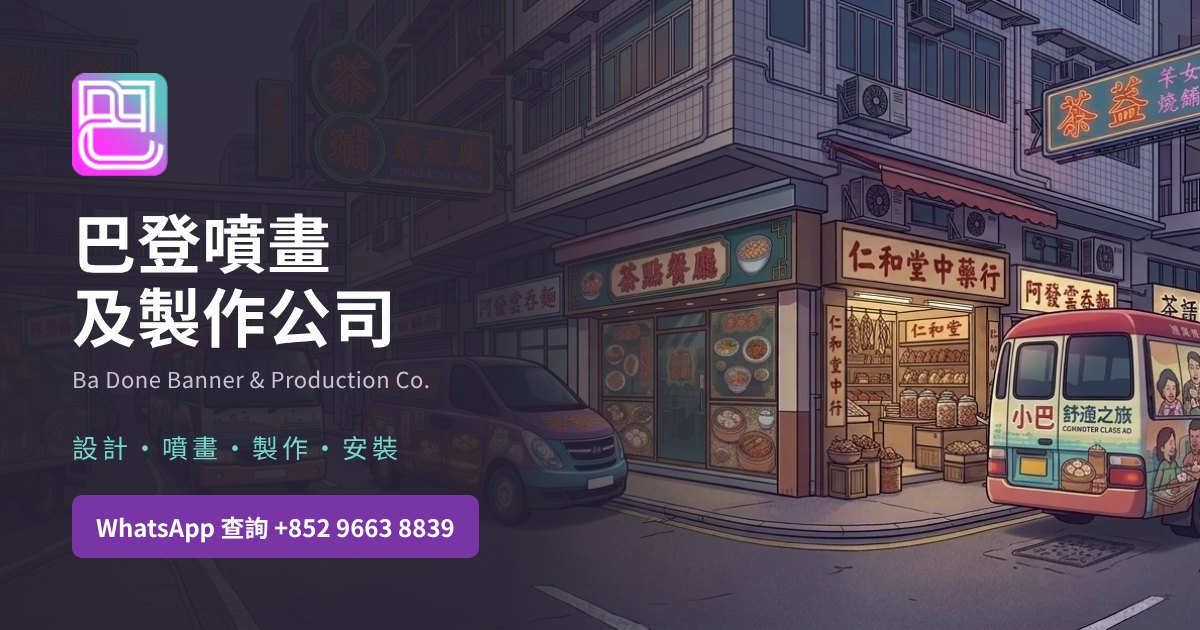
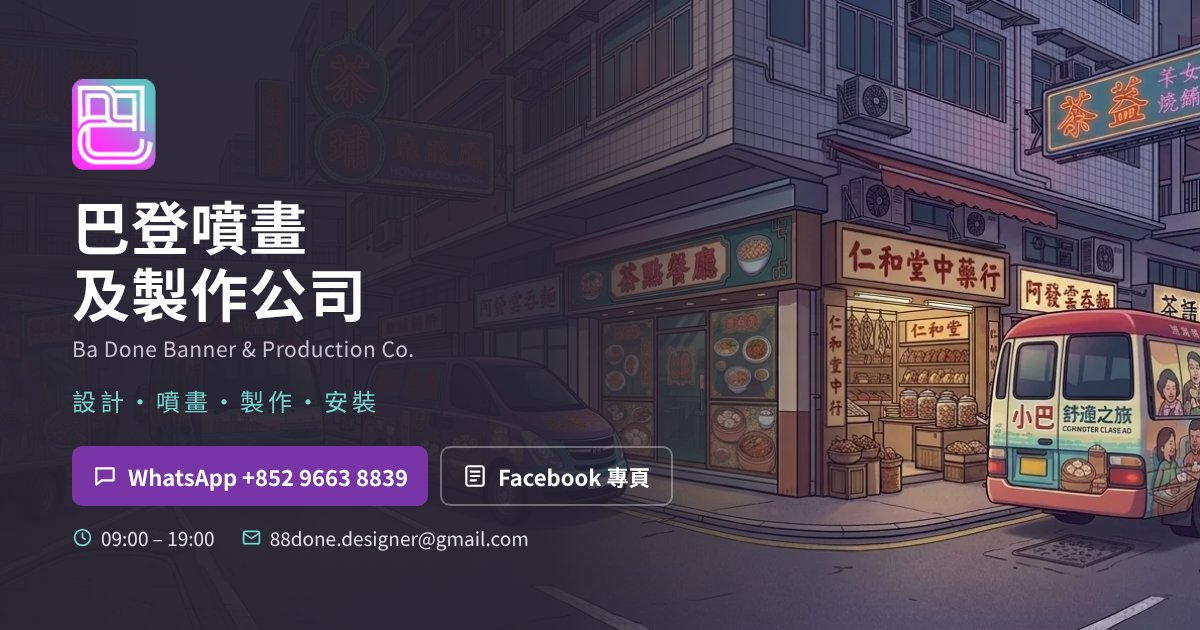
Keep original wording; two-line top bar on phones; add hours and email
- Restore the original mixed written/Cantonese wording (owner prefers it, readable for Mandarin speakers too)
- Phones: show the top bar as two lines (English name, then services) instead of hiding the English
- Add business hours (09:00–19:00) and email to the quote section and footer, plus an Email link
- Refresh the share preview image with WhatsApp, Facebook, hours and email
- Phones: put the two footer notes on separate lines

Claude-Session: https://claude.ai/code/session_01KekdL4R6muF96piBttP2z3

Changed region(s): [[0.0617, 0.0905, 0.3392, 0.6635], [0.0617, 0.6937, 0.555, 0.9048], [0.4933, 0.3921, 0.6167, 0.4825]]

diff --git a/index.html b/index.html
@@ -99,6 +99,12 @@ nav{display:flex;align-items:center;gap:28px;font-size:14px}
 .contact-card strong{display:block;font-size:23px}
 .contact-card small{color:var(--muted)}
 .contact-card .btn{margin-top:16px}
+.contact-list{margin:22px 0 0;display:grid;gap:10px;font-size:14px}
+.contact-list div{display:flex;gap:14px}
+.contact-list dt{flex:0 0 64px;color:var(--muted)}
+.contact-list dd{margin:0;font-weight:700;overflow-wrap:anywhere}
+.contact-list a{border-bottom:1px solid #c9bdcf}
+.contact-list a:hover{color:var(--purple);border-color:var(--purple)}
 form{background:#fff;padding:32px;border:1px solid #e3d8eb;border-radius:16px;box-shadow:0 14px 45px #44225308}
 .fields{display:grid;grid-template-columns:1fr 1fr;gap:16px}
 .field.full{grid-column:1/-1}
@@ -126,6 +132,8 @@ footer{padding:44px 0 25px;background:var(--ink);color:#fff}
 .footer-brand{display:flex;align-items:flex-start;gap:14px}
 .footer-logo{object-fit:contain;flex-shrink:0}
 .footer-brand p{margin-top:8px}
+.foot-contact a{border-bottom:1px solid #5a4865}
+.foot-contact a:hover{border-color:#cbc1d2}
 .social{display:flex;gap:12px;flex-wrap:wrap;align-items:flex-start}
 .social a{border:1px solid #5a4865;border-radius:7px;padding:9px 14px;font-size:13px}
 .social a:hover{background:#42324c}
@@ -151,7 +159,9 @@ nav{gap:16px}
 @media(max-width:700px){
 .wrap{padding-left:22px;padding-right:22px}
 .topline{font-size:10px}
-.topline-en{display:none}
+.topline{padding:7px 8px;line-height:1.6}
+.topline-sep{display:none}
+.topline-en,.topline-zh{display:block}
 .head{min-height:86px;gap:10px}
 .brand{gap:9px}
 .brand-logo{width:39px;height:42px}
@@ -181,6 +191,8 @@ form{padding:22px}
 .foot-top,.foot-bottom{display:block}
 .social{margin-top:22px}
 .foot-bottom{padding-bottom:35px}
+.foot-bottom>span{display:block}
+.foot-bottom>span+span{margin-top:6px}
 .footer-logo{width:39px;height:42px}
 .float-wa{right:14px;bottom:14px;font-size:12px}
 }
@@ -200,7 +212,7 @@ html{scroll-behavior:auto}
 .btn:hover{transform:none}
 }
 </style></head><body>
-<div class="topline"><span class="topline-en">BA DONE BANNER &amp; PRODUCTION CO. · </span>設計 / 噴畫 / 製作 / 安裝</div>
+<div class="topline"><span class="topline-en">BA DONE BANNER &amp; PRODUCTION CO.</span><span class="topline-sep"> · </span><span class="topline-zh">設計 / 噴畫 / 製作 / 安裝</span></div>
[1 lines of base64/hex data omitted]
 <main><figure class="brand-banner"><img src="assets/badone-banner.webp" width="1728" height="624" alt="香港街景插畫，展示店舖招牌、櫥窗及車身廣告" fetchpriority="high" decoding="async"><figcaption>巴登品牌形象插畫 · 廣告，融入每個生活場景。</figcaption></figure><section class="wrap hero"><div><div class="eyebrow">BRING YOUR BRAND TO LIFE</div><h1>讓品牌被看見。<br>讓每個畫面，<br><span>發揮影響力。</span></h1><p>由店舖宣傳到車身廣告，巴登為你提供噴畫、貼紙、招牌製作及安裝服務，將設計呈現於每一個需要嘅位置。</p><div class="actions"><a class="btn dark" href="#quote">WhatsApp 查詢報價 ↗</a><a class="btn outline" href="#services">了解製作服務</a></div><div class="hero-note"><span>按項目選擇物料</span><span>製作與安裝安排</span></div></div></section>
 
@@ -209,11 +221,11 @@ html{scroll-behavior:auto}
 <article class="service"><svg class="icon" viewBox="0 0 40 40" aria-hidden="true"><path d="M8 5h23a4 4 0 0 1 4 4v14L23 35H8a4 4 0 0 1-4-4V9a4 4 0 0 1 4-4Z" fill="#f3e7fb"/><path d="M23 35V27a4 4 0 0 1 4-4h8" fill="#d9c0e9"/><path d="M11 13h16M11 19h12M11 25h6"/><path d="M27 27 23 35" stroke="#a480ba"/></svg><span class="num">02 / SIGNS &amp; STICKERS</span><h3>貼紙・亞加力膠廣告招牌</h3><p>櫥窗廣告、品牌文字、自黏貼紙及亞加力膠招牌，清楚呈現你嘅資訊。</p></article>
 <article class="service"><svg class="icon" viewBox="0 0 40 40" aria-hidden="true"><path d="M5 26V15h20l8 8v8H5zM25 15v9h8M9 19h11"/><circle cx="11" cy="31" r="4"/><circle cx="28" cy="31" r="4"/></svg><span class="num">03 / VEHICLE GRAPHICS</span><h3>車身貼・流動廣告</h3><p>車身標誌、文字及廣告貼，按車款、覆蓋範圍與使用需要製作。</p></article>
 <article class="service"><svg class="icon" viewBox="0 0 40 40" aria-hidden="true"><path d="M5 16v20h30V16M3 36h34M4 6h32l2 10H2L4 6Z" fill="#f2faf8"/><path d="M10 6 8 16m10-10v10m4-10v10m8-10 2 10M2 16q4 5 8 0 4 5 8 0 4 5 8 0 6 5 12 0"/><path d="M9 22h13v10H9z" fill="#63cec6" stroke="#21736f"/><path d="M25 36V22h6v14M12 25h7m-7 4h5"/><circle cx="28" cy="29" r=".8" fill="#21736f"/></svg><span class="num">04 / FILM &amp; INSTALLATION</span><h3>噴畫貼紙・現場安裝</h3><p>玻璃/牆身貼紙、裝飾及廣告安裝，配合現場環境安排施工。</p></article></div></section>
-<section class="applications" id="applications"><div class="wrap section"><div class="section-head"><div><div class="eyebrow">PRINT IN THE REAL WORLD</div><h2>品牌，可以出現喺邊度？</h2></div><p>由店面、商場到車身，透過項目照片了解噴畫及貼紙嘅應用。點選照片可放大查看。</p></div><div class="examples portfolio-grid"><article class="example portfolio-card"><a class="portfolio-image" href="assets/coffee-storefront.webp" target="_blank" rel="noopener" aria-label="放大查看：店舖外牆・大型噴畫"><img src="assets/coffee-storefront.webp" width="1600" height="900" loading="lazy" decoding="async" alt="咖啡店外牆廣告及店面展示"><span class="zoom-label">放大查看 ↗</span></a><div class="example-copy"><small>RETAIL / 店面廣告</small><h3>店舖外牆・大型噴畫</h3><p>以大型宣傳畫面配合店面空間，呈現品牌形象。</p></div></article><article class="example portfolio-card"><a class="portfolio-image" href="assets/mall-hoarding.webp" target="_blank" rel="noopener" aria-label="放大查看：商場圍板・廣告貼紙"><img src="assets/mall-hoarding.webp" width="1441" height="952" loading="lazy" decoding="async" alt="商場圍板上嘅品牌及餐飲廣告"><span class="zoom-label">放大查看 ↗</span></a><div class="example-copy"><small>LARGE FORMAT / 大幅面廣告</small><h3>商場圍板・廣告貼紙</h3><p>利用圍板展示品牌與推廣資訊，將空間變成廣告畫面。</p></div></article><article class="example portfolio-card"><a class="portfolio-image" href="assets/minibus-graphics.webp" target="_blank" rel="noopener" aria-label="放大查看：小巴・車身廣告"><img src="assets/minibus-graphics.webp" width="1533" height="1130" loading="lazy" decoding="async" alt="小巴側面及車頭廣告貼紙"><span class="zoom-label">放大查看 ↗</span></a><div class="example-copy"><small>VEHICLE GRAPHICS / 小巴</small><h3>小巴・車身廣告</h3><p>配合車身側面與車頭位置，清楚呈現廣告內容。</p></div></article><article class="example portfolio-card"><a class="portfolio-image" href="assets/van-wrap.webp" target="_blank" rel="noopener" aria-label="放大查看：貨 Van・車身廣告"><img src="assets/van-wrap.webp" width="1283" height="874" loading="lazy" decoding="async" alt="橙色貨Van側面及車尾車身廣告"><span class="zoom-label">放大查看 ↗</span></a><div class="example-copy"><small>VEHICLE GRAPHICS / 貨 Van</small><h3>貨 Van・車身廣告</h3><p>延伸品牌畫面至車身及車尾，讓出行成為展示機會。</p></div></article><article class="example portfolio-card"><a class="portfolio-image" href="assets/truck-graphics.webp" target="_blank" rel="noopener" aria-label="放大查看：貨車・車斗廣告"><img src="assets/truck-graphics.webp" width="1600" height="1200" loading="lazy" decoding="async" alt="Dunlop品牌貨車車斗及車門廣告"><span class="zoom-label">放大查看 ↗</span></a><div class="example-copy"><small>VEHICLE GRAPHICS / 貨車</small><h3>貨車・車斗廣告</h3><p>利用車斗大幅面空間，呈現品牌標誌及廣告畫面。</p></div></article><article class="example portfolio-card"><a class="portfolio-image" href="assets/interior-column.webp" target="_blank" rel="noopener" aria-label="放大查看：室內柱身・裝飾貼紙"><img src="assets/interior-column.webp" width="1094" height="1276" loading="lazy" decoding="async" alt="咖啡店室內柱身廣告貼紙"><span class="zoom-label">放大查看 ↗</span></a><div class="example-copy"><small>INTERIOR / 室內貼紙</small><h3>室內柱身・裝飾貼紙</h3><p>善用柱身及室內表面，融入品牌視覺與裝飾。</p></div></article><article class="example portfolio-card acrylic-card"><a class="portfolio-image" href="assets/acrylic-sign.webp" target="_blank" rel="noopener" aria-label="放大查看：亞加力膠廣告招牌"><img src="assets/acrylic-sign.webp" width="522" height="776" loading="lazy" decoding="async" alt="木紋牆上嘅彩色立體亞加力膠品牌招牌"><span class="zoom-label">放大查看 ↗</span></a><div class="example-copy"><small>ACRYLIC SIGNAGE / 亞加力膠招牌</small><h3>亞加力膠廣告招牌</h3><p>以彩色立體標誌及文字，為牆身呈現鮮明嘅品牌形象。</p></div></article><article class="example portfolio-card printing-card"><a class="portfolio-image" href="assets/printing-sheets.webp" target="_blank" rel="noopener" aria-label="放大查看：印刷・宣傳印刷品"><img src="assets/printing-sheets.webp" width="549" height="977" loading="lazy" decoding="async" alt="彩色宣傳印刷品嘅印刷紙張"><span class="zoom-label">放大查看 ↗</span></a><div class="example-copy"><small>PRINTING / 印刷</small><h3>印刷・宣傳印刷品</h3><p>以彩色印刷呈現產品資訊及宣傳內容。</p></div></article></div></div></section>
-<section class="wrap section" id="process"><div class="eyebrow">A CLEAR PROCESS</div><h2>由查詢到交付，清楚每一步。</h2><div class="steps"><article class="step"><b>01 / 話我哋知你嘅需要</b><h3>提供尺寸與現場照片</h3><p>說明用途、數量、完成日期及安裝位置。已有稿件亦可以喺 WhatsApp 提供。</p></article><article class="step"><b>02 / 確認製作細節</b><h3>確認物料、報價與稿件</h3><p>按項目需求確認製作方式，並商議送貨或現場安裝安排。</p></article><article class="step"><b>03 / 安排完成項目</b><h3>製作、交付或安裝</h3><p>根據已確認嘅內容安排製作，並按約定完成交付。</p></article></div></section>
-<section class="quote-area" id="quote"><div class="wrap section quote-grid"><div class="quote-intro"><div class="eyebrow">LET’S TALK ABOUT YOUR PROJECT</div><h2>有製作計劃？<br>先同我哋傾一傾。</h2><p>填好資料，按一下即可打開 WhatsApp，帶入你嘅查詢內容，再由你確認發送。</p><div class="contact-card"><small>WhatsApp 查詢</small><strong>+852 9663 8839</strong><a class="btn outline small" href="https://wa.me/85296638839" target="_blank" rel="noopener">直接開啟對話 ↗</a></div><p class="hint">照片會喺呢個頁面作本機預覽，唔會上傳到伺服器。WhatsApp 無法透過網址自動附加照片，請喺對話內再揀選附件發送。</p></div>
-<form id="quote-form"><div class="fields"><div class="field"><label for="name">稱呼 *</label><input id="name" name="name" autocomplete="name" maxlength="100" required placeholder="你嘅姓名 / 公司名稱"></div><div class="field"><label for="phone">聯絡電話（選填）</label><input id="phone" name="phone" type="tel" autocomplete="tel" maxlength="40" placeholder="方便回覆嘅電話"></div><div class="field"><label for="type">製作類型</label><select id="type"><option>廣告噴畫 / 橫額</option><option>貼紙 / 亞加力膠廣告招牌</option><option>車身廣告</option><option>噴畫貼紙 / 現場安裝</option><option>其他 / 未確定</option></select></div><div class="field"><label for="date">希望完成日期（選填）</label><input id="date" type="date"></div><div class="field full"><label for="details">項目資料 *</label><textarea id="details" maxlength="3000" required rows="4" placeholder="例如：櫥窗貼紙，約 120 × 80cm，2 張，需要安裝。請提供尺寸、數量、用途及安裝地點。"></textarea></div><div class="field full"><label class="upload" for="photos">＋ 選擇現場照片 / 參考圖片<span>最多 6 張，每張最多 15MB · 選取後可以預覽</span><input id="photos" type="file" accept="image/*,.heic,.heif" multiple></label><div id="photo-status" class="status" role="status" aria-live="polite"></div><div id="photo-preview" class="photos"></div></div></div><p class="hint">第一步：發送查詢文字。第二步：喺 WhatsApp 附加相片。支援嘅手機亦可用下方「分享已選照片」，再選 WhatsApp 及接收人。</p><button class="btn dark send" type="submit">帶入資料，開啟 WhatsApp ↗</button><button class="btn outline share" id="share-photos" type="button" hidden>分享已選照片</button><p id="send-status" class="status" aria-live="polite"></p></form></div></section>
[1 lines of base64/hex data omitted]
+<section class="applications" id="applications"><div class="wrap section"><div class="section-head"><div><div class="eyebrow">PRINT IN THE REAL WORLD</div><h2>品牌，可以出現喺邊度？</h2></div><p>由店面、商場到車身，透過項目照片了解噴畫及貼紙嘅應用。點選照片可放大查看。</p></div><div class="examples portfolio-grid"><article class="example portfolio-card"><a class="portfolio-image" href="assets/coffee-storefront.webp" target="_blank" rel="noopener" aria-label="放大查看：店舖外牆・大型噴畫"><img src="assets/coffee-storefront.webp" width="1600" height="900" loading="lazy" decoding="async" alt="咖啡店外牆廣告及店面展示"><span class="zoom-label">放大查看 ↗</span></a><div class="example-copy"><small>RETAIL / 店面廣告</small><h3>店舖外牆・大型噴畫</h3><p>以大型宣傳畫面配合店面空間，呈現品牌形象。</p></div></article><article class="example portfolio-card"><a class="portfolio-image" href="assets/mall-hoarding.webp" target="_blank" rel="noopener" aria-label="放大查看：商場圍板・廣告貼紙"><img src="assets/mall-hoarding.webp" width="1441" height="952" loading="lazy" decoding="async" alt="商場圍板上的品牌及餐飲廣告"><span class="zoom-label">放大查看 ↗</span></a><div class="example-copy"><small>LARGE FORMAT / 大幅面廣告</small><h3>商場圍板・廣告貼紙</h3><p>利用圍板展示品牌與推廣資訊，將空間變成廣告畫面。</p></div></article><article class="example portfolio-card"><a class="portfolio-image" href="assets/minibus-graphics.webp" target="_blank" rel="noopener" aria-label="放大查看：小巴・車身廣告"><img src="assets/minibus-graphics.webp" width="1533" height="1130" loading="lazy" decoding="async" alt="小巴側面及車頭廣告貼紙"><span class="zoom-label">放大查看 ↗</span></a><div class="example-copy"><small>VEHICLE GRAPHICS / 小巴</small><h3>小巴・車身廣告</h3><p>配合車身側面與車頭位置，清楚呈現廣告內容。</p></div></article><article class="example portfolio-card"><a class="portfolio-image" href="assets/van-wrap.webp" target="_blank" rel="noopener" aria-label="放大查看：貨 Van・車身廣告"><img src="assets/van-wrap.webp" width="1283" height="874" loading="lazy" decoding="async" alt="橙色貨Van側面及車尾車身廣告"><span class="zoom-label">放大查看 ↗</span></a><div class="example-copy"><small>VEHICLE GRAPHICS / 貨 Van</small><h3>貨 Van・車身廣告</h3><p>延伸品牌畫面至車身及車尾，讓出行成為展示機會。</p></div></article><article class="example portfolio-card"><a class="portfolio-image" href="assets/truck-graphics.webp" target="_blank" rel="noopener" aria-label="放大查看：貨車・車斗廣告"><img src="assets/truck-graphics.webp" width="1600" height="1200" loading="lazy" decoding="async" alt="Dunlop品牌貨車車斗及車門廣告"><span class="zoom-label">放大查看 ↗</span></a><div class="example-copy"><small>VEHICLE GRAPHICS / 貨車</small><h3>貨車・車斗廣告</h3><p>利用車斗大幅面空間，呈現品牌標誌及廣告畫面。</p></div></article><article class="example portfolio-card"><a class="portfolio-image" href="assets/interior-column.webp" target="_blank" rel="noopener" aria-label="放大查看：室內柱身・裝飾貼紙"><img src="assets/interior-column.webp" width="1094" height="1276" loading="lazy" decoding="async" alt="咖啡店室內柱身廣告貼紙"><span class="zoom-label">放大查看 ↗</span></a><div class="example-copy"><small>INTERIOR / 室內貼紙</small><h3>室內柱身・裝飾貼紙</h3><p>善用柱身及室內表面，融入品牌視覺與裝飾。</p></div></article><article class="example portfolio-card acrylic-card"><a class="portfolio-image" href="assets/acrylic-sign.webp" target="_blank" rel="noopener" aria-label="放大查看：亞加力膠廣告招牌"><img src="assets/acrylic-sign.webp" width="522" height="776" loading="lazy" decoding="async" alt="木紋牆上的彩色立體亞加力膠品牌招牌"><span class="zoom-label">放大查看 ↗</span></a><div class="example-copy"><small>ACRYLIC SIGNAGE / 亞加力膠招牌</small><h3>亞加力膠廣告招牌</h3><p>以彩色立體標誌及文字，為牆身呈現鮮明嘅品牌形象。</p></div></article><article class="example portfolio-card printing-card"><a class="portfolio-image" href="assets/printing-sheets.webp" target="_blank" rel="noopener" aria-label="放大查看：印刷・宣傳印刷品"><img src="assets/printing-sheets.webp" width="549" height="977" loading="lazy" decoding="async" alt="彩色宣傳印刷品的印刷紙張"><span class="zoom-label">放大查看 ↗</span></a><div class="example-copy"><small>PRINTING / 印刷</small><h3>印刷・宣傳印刷品</h3><p>以彩色印刷呈現產品資訊及宣傳內容。</p></div></article></div></div></section>
+<section class="wrap section" id="process"><div class="eyebrow">A CLEAR PROCESS</div><h2>由查詢到交付，清楚每一步。</h2><div class="steps"><article class="step"><b>01 / 告訴我們你的需要</b><h3>提供尺寸與現場照片</h3><p>說明用途、數量、完成日期及安裝位置。已有稿件亦可於 WhatsApp 提供。</p></article><article class="step"><b>02 / 確認製作細節</b><h3>確認物料、報價與稿件</h3><p>按項目需求確認製作方式，並商議送貨或現場安裝安排。</p></article><article class="step"><b>03 / 安排完成項目</b><h3>製作、交付或安裝</h3><p>根據已確認嘅內容安排製作，並按約定完成交付。</p></article></div></section>
+<section class="quote-area" id="quote"><div class="wrap section quote-grid"><div class="quote-intro"><div class="eyebrow">LET’S TALK ABOUT YOUR PROJECT</div><h2>有製作計劃？<br>先同我哋傾一傾。</h2><p>填好資料，按一下即可打開 WhatsApp，帶入你嘅查詢內容，再由你確認發送。</p><div class="contact-card"><small>WhatsApp 查詢</small><strong>+852 9663 8839</strong><a class="btn outline small" href="https://wa.me/85296638839" target="_blank" rel="noopener">直接開啟對話 ↗</a><dl class="contact-list"><div><dt>營業時間</dt><dd>09:00 – 19:00</dd></div><div><dt>Email</dt><dd><a href="mailto:88done.designer@gmail.com">88done.designer@gmail.com</a></dd></div></dl></div><p class="hint">照片會喺呢個頁面作本機預覽，唔會上傳到伺服器。WhatsApp 無法透過網址自動附加照片，請喺對話內再揀選附件發送。</p></div>
+<form id="quote-form"><div class="fields"><div class="field"><label for="name">稱呼 *</label><input id="name" name="name" autocomplete="name" maxlength="100" required placeholder="你的姓名 / 公司名稱"></div><div class="field"><label for="phone">聯絡電話（選填）</label><input id="phone" name="phone" type="tel" autocomplete="tel" maxlength="40" placeholder="方便回覆的電話"></div><div class="field"><label for="type">製作類型</label><select id="type"><option>廣告噴畫 / 橫額</option><option>貼紙 / 亞加力膠廣告招牌</option><option>車身廣告</option><option>噴畫貼紙 / 現場安裝</option><option>其他 / 未確定</option></select></div><div class="field"><label for="date">希望完成日期（選填）</label><input id="date" type="date"></div><div class="field full"><label for="details">項目資料 *</label><textarea id="details" maxlength="3000" required rows="4" placeholder="例如：櫥窗貼紙，約 120 × 80cm，2 張，需要安裝。請提供尺寸、數量、用途及安裝地點。"></textarea></div><div class="field full"><label class="upload" for="photos">＋ 選擇現場照片 / 參考圖片<span>最多 6 張，每張最多 15MB · 選取後可以預覽</span><input id="photos" type="file" accept="image/*,.heic,.heif" multiple></label><div id="photo-status" class="status" role="status" aria-live="polite"></div><div id="photo-preview" class="photos"></div></div></div><p class="hint">第一步：發送查詢文字。第二步：在 WhatsApp 附加相片。支援嘅手機亦可用下方「分享已選照片」，再選 WhatsApp 及接收人。</p><button class="btn dark send" type="submit">帶入資料，開啟 WhatsApp ↗</button><button class="btn outline share" id="share-photos" type="button" hidden>分享已選照片</button><p id="send-status" class="status" aria-live="polite"></p></form></div></section>
[1 lines of base64/hex data omitted]
 <script>
 'use strict';
 const $=id=>document.getElementById(id);let selected=[];let previewUrls=[];
@@ -221,7 +233,7 @@ $('year').textContent=new Date().getFullYear();
 function makeMessage(v,files){return ['你好，巴登，我想查詢製作報價。','稱呼：'+v.name,'聯絡電話：'+(v.phone||'未填寫'),'製作類型：'+v.type,'希望完成日期：'+(v.date||'待商議'),'項目資料：',v.details,files.length?'參考照片：'+files.length+' 張（稍後另附）':''].filter(Boolean).join('\n');}
 function renderPhotos(){previewUrls.forEach(url=>URL.revokeObjectURL(url));previewUrls=[];$('photo-preview').replaceChildren();selected.forEach((file,i)=>{const figure=document.createElement('figure');figure.className='photo';const img=document.createElement('img');const url=URL.createObjectURL(file);previewUrls.push(url);img.src=url;img.alt='所選參考照片 '+(i+1);img.onerror=()=>{img.remove();const p=document.createElement('p');p.textContent='已選取照片（此格式無法預覽）';p.style='font-size:11px;padding:10px';figure.prepend(p);};const caption=document.createElement('figcaption');caption.textContent=file.name;const remove=document.createElement('button');remove.type='button';remove.textContent='移除';remove.setAttribute('aria-label','移除照片 '+file.name);remove.addEventListener('click',()=>{selected.splice(i,1);renderPhotos();$('photo-status').textContent='已選取 '+selected.length+' 張照片';});figure.append(img,caption,remove);$('photo-preview').append(figure);});$('share-photos').hidden=!(selected.length&&navigator.canShare&&navigator.canShare({files:selected}));}
 $('photos').addEventListener('change',()=>{const errors=[];for(const file of $('photos').files){if(!(file.type.startsWith('image/')||/\.(heic|heif)$/i.test(file.name))){errors.push(file.name+'：請選擇圖片');continue;}if(file.size>15*1024*1024){errors.push(file.name+'：超過 15MB');continue;}if(selected.some(f=>f.name===file.name&&f.size===file.size&&f.lastModified===file.lastModified))continue;if(selected.length>=6){errors.push('最多只可選擇 6 張照片');break;}selected.push(file);}$('photos').value='';renderPhotos();$('photo-status').textContent='已選取 '+selected.length+' 張照片'+(errors.length?'。'+errors.join('；'):'');$('photo-status').classList.toggle('form-error',!!errors.length);});
-$('quote-form').addEventListener('submit',e=>{e.preventDefault();const v={name:$('name').value.trim(),phone:$('phone').value.trim(),type:$('type').value,date:$('date').value,details:$('details').value.trim()};if(!v.name||!v.details){$('send-status').textContent='請填寫稱呼及項目資料。';return;}const url='https://wa.me/85296638839?text='+encodeURIComponent(makeMessage(v,selected));$('send-status').replaceChildren();const msg=document.createElement('span');msg.textContent='請喺 WhatsApp 確認文字再按發送。'+(selected.length?' 記得再附上 '+selected.length+' 張照片。':'');const link=document.createElement('a');link.href=url;link.target='_blank';link.rel='noopener';link.textContent=' 如果未有開啟，請按呢度再試。';link.style.textDecoration='underline';$('send-status').append(msg,link);window.open(url,'_blank','noopener');});
-$('share-photos').addEventListener('click',async()=>{if(!selected.length)return;try{await navigator.share({files:selected});$('send-status').textContent='請喺分享選單揀 WhatsApp，並確認接收人係 +852 9663 8839。';}catch(e){if(e.name!=='AbortError')$('send-status').textContent='呢部裝置未能分享照片，請喺 WhatsApp 用附件按鈕揀選照片。';}});
+$('quote-form').addEventListener('submit',e=>{e.preventDefault();const v={name:$('name').value.trim(),phone:$('phone').value.trim(),type:$('type').value,date:$('date').value,details:$('details').value.trim()};if(!v.name||!v.details){$('send-status').textContent='請填寫稱呼及項目資料。';return;}const url='https://wa.me/85296638839?text='+encodeURIComponent(makeMessage(v,selected));$('send-status').replaceChildren();const msg=document.createElement('span');msg.textContent='請在 WhatsApp 確認文字並按發送。'+(selected.length?' 記得再附上 '+selected.length+' 張照片。':'');const link=document.createElement('a');link.href=url;link.target='_blank';link.rel='noopener';link.textContent=' 如未開啟，點此重試。';link.style.textDecoration='underline';$('send-status').append(msg,link);window.open(url,'_blank','noopener');});
+$('share-photos').addEventListener('click',async()=>{if(!selected.length)return;try{await navigator.share({files:selected});$('send-status').textContent='請在分享選單選擇 WhatsApp，並確認接收人為 +852 9663 8839。';}catch(e){if(e.name!=='AbortError')$('send-status').textContent='此裝置無法分享照片，請在 WhatsApp 使用附件按鈕選取照片。';}});
 window.addEventListener('pagehide',()=>previewUrls.forEach(url=>URL.revokeObjectURL(url)));
 </script></body></html>
